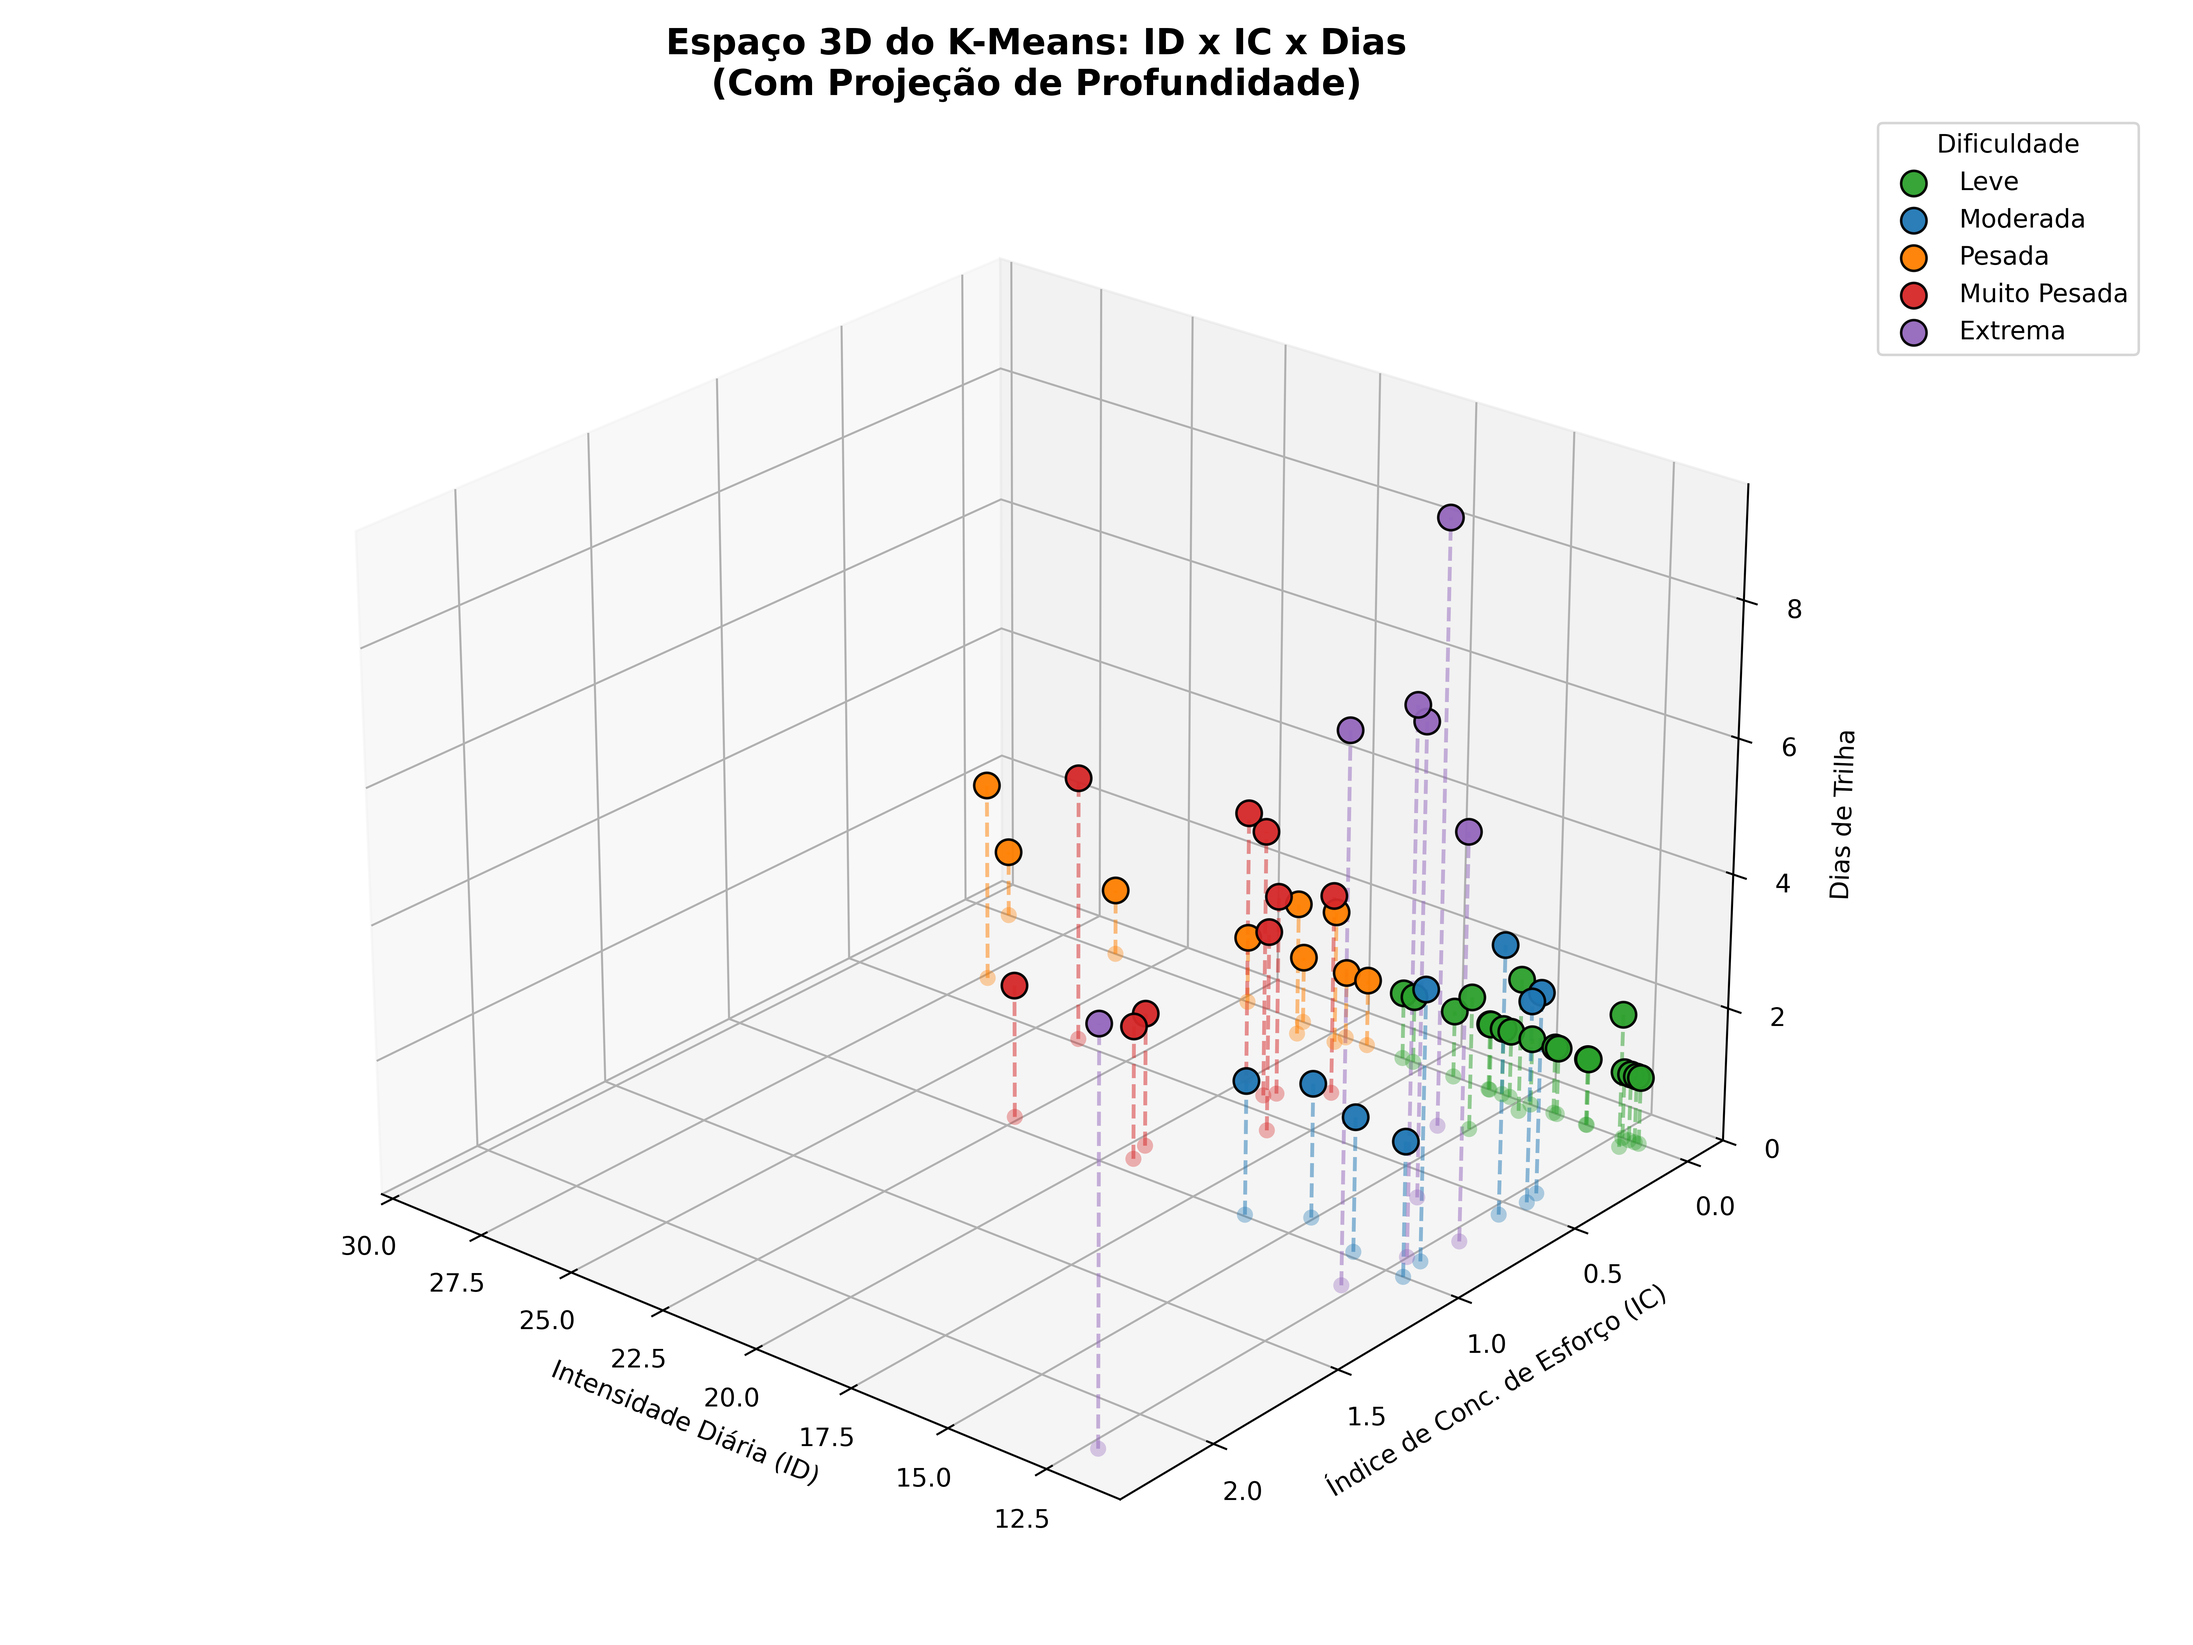
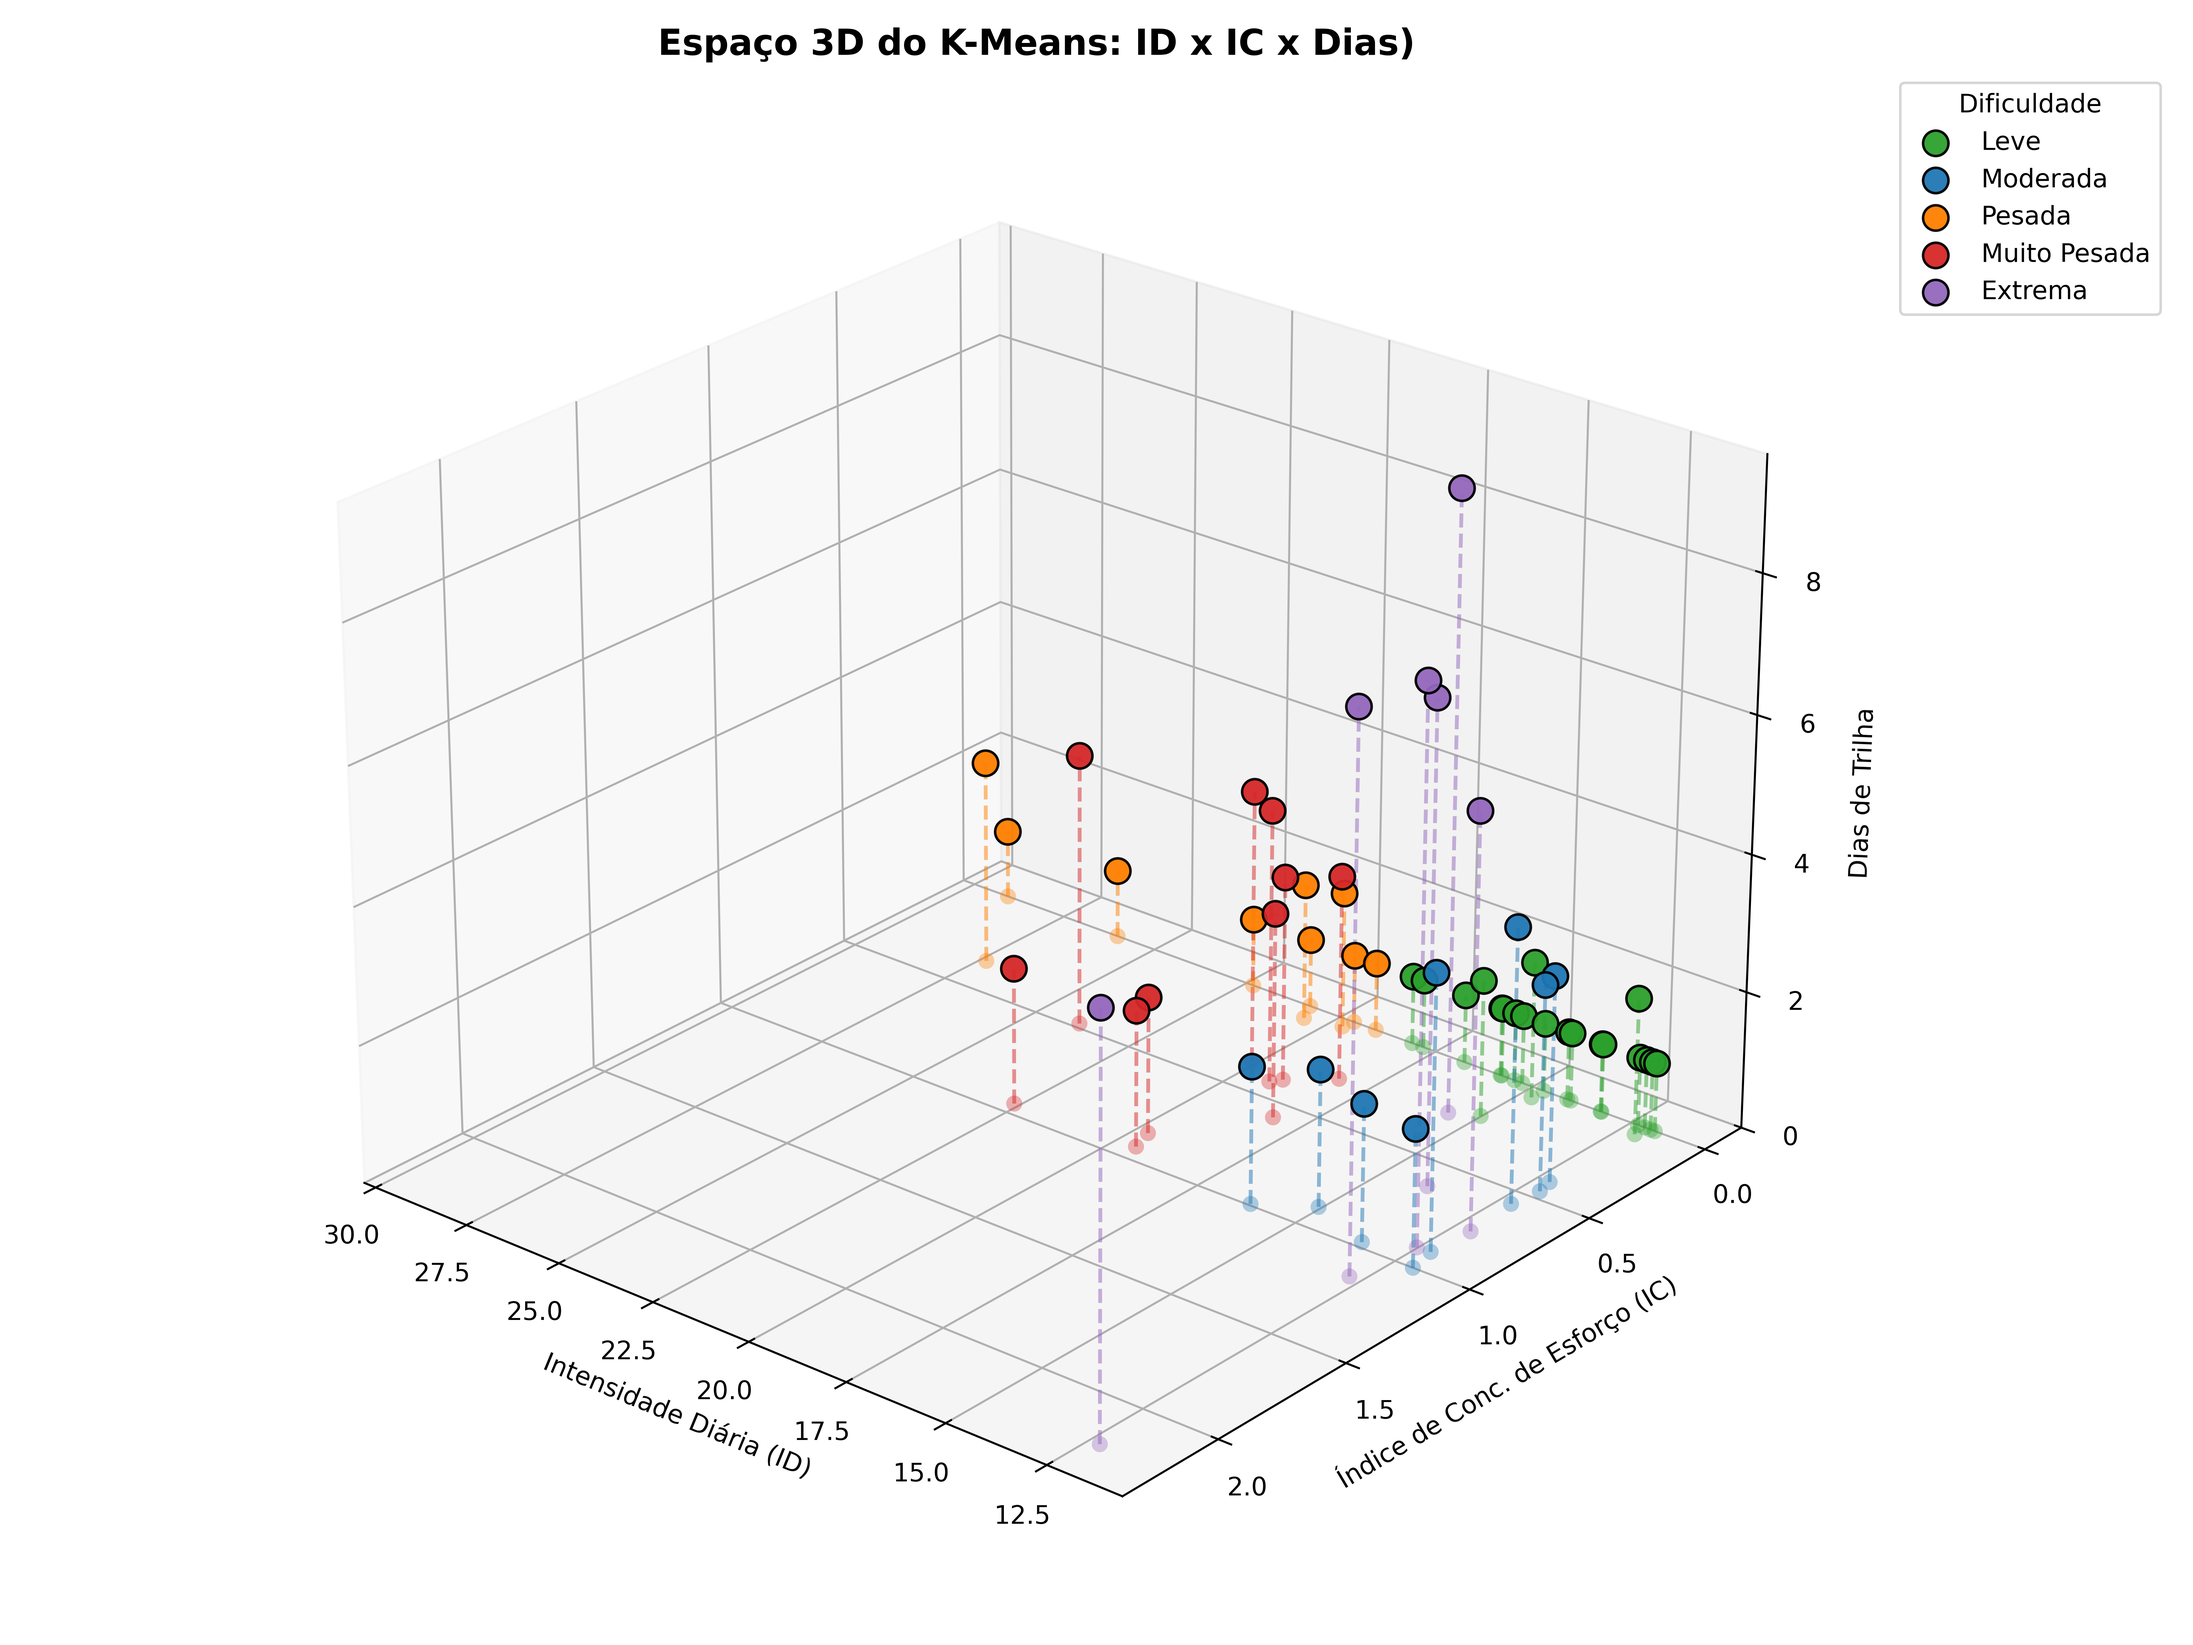
refactor: simplify 3D K-Means plot visualization and update figure title

diff --git a/src/gerar_graficos.py b/src/gerar_graficos.py
@@ -265,12 +265,12 @@ def gerar_graficos_discussao_avancados(caminho_csv='dados/resultados/trilhas_kme
 def gerar_grafico_3d_kmeans(caminho_csv='dados/resultados/trilhas_kmeans.csv'):
     df = pd.read_csv(caminho_csv)
     
-    # Organiza as categorias
+
     cat_order = ['Leve', 'Moderada', 'Pesada', 'Muito Pesada', 'Extrema']
     if 'dificuldade' in df.columns:
         df['dificuldade'] = pd.Categorical(df['dificuldade'], categories=cat_order, ordered=True)
         
-    # Cores Categóricas e Distintas (Semântica de Alerta)
+
     color_map = {
         'Leve': '#2ca02c',        # Verde
         'Moderada': '#1f77b4',    # Azul
@@ -279,38 +279,37 @@ def gerar_grafico_3d_kmeans(caminho_csv='dados/resultados/trilhas_kmeans.csv'):
         'Extrema': '#9467bd'      # Roxo
     }
 
-    # Configura a figura 3D
     fig = plt.figure(figsize=(12, 9))
     ax = fig.add_subplot(111, projection='3d')
     
-    # Piso do eixo Z (Dias de trilha)
+
     min_z = 0 
     
     for cat in cat_order:
         subset = df[df['dificuldade'] == cat]
         color = color_map[cat]
         
-        # 1. HASTES (Linhas caindo até o chão)
+  
         for _, row in subset.iterrows():
             ax.plot([row['intensidade_diaria'], row['intensidade_diaria']], 
                     [row['indice_concentracao_esforco'], row['indice_concentracao_esforco']], 
                     [min_z, row['dias_trilha']], 
                     color=color, alpha=0.5, linewidth=1.5, linestyle='--')
             
-        # 2. PONTOS REAIS
+
         ax.scatter(subset['intensidade_diaria'], 
                    subset['indice_concentracao_esforco'], 
                    subset['dias_trilha'], 
                    s=100, label=cat, alpha=0.95, edgecolors='black', linewidths=1, color=color)
                    
-        # 3. SOMBRAS
+
         ax.scatter(subset['intensidade_diaria'], 
                    subset['indice_concentracao_esforco'], 
                    [min_z] * len(subset), 
                    s=40, alpha=0.35, color=color, edgecolors='none')
 
-    # Títulos e Eixos
-    ax.set_title('Espaço 3D do K-Means: ID x IC x Dias\n(Com Projeção de Profundidade)', fontweight='bold', fontsize=14)
+
+    ax.set_title('Espaço 3D do K-Means: ID x IC x Dias)', fontweight='bold', fontsize=14)
     ax.set_xlabel('Intensidade Diária (ID)')
     ax.set_ylabel('Índice de Conc. de Esforço (IC)')
     ax.set_zlabel('Dias de Trilha')
